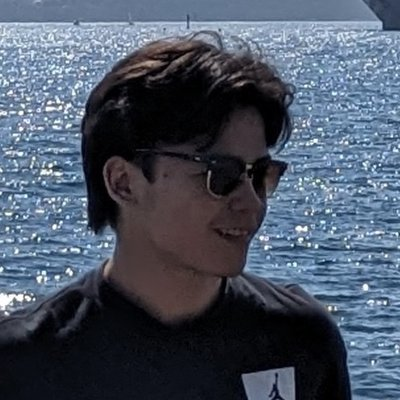
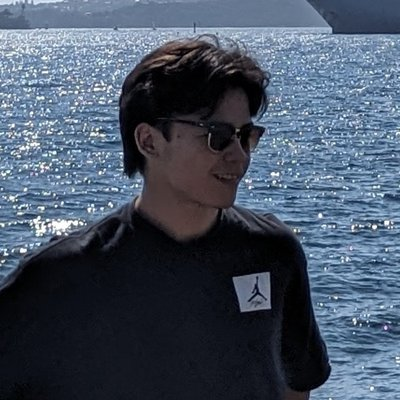
Widen profile photo crop

diff --git a/reviews.html b/reviews.html
@@ -5,7 +5,7 @@
   <meta name="viewport" content="width=device-width, initial-scale=1">
   <title>Reviews · Keiran Moores</title>
   <meta name="description" content="Leave a review for Keiran Moores' IT, AI adoption and security services.">
-  <link rel="stylesheet" href="assets/style.css?v=11">
+  <link rel="stylesheet" href="assets/style.css?v=12">
 </head>
 <body>
   <div class="page">
@@ -76,7 +76,7 @@
       </div>
     </main>
   </div>
-  <script src="assets/layout.js?v=11"></script>
+  <script src="assets/layout.js?v=12"></script>
   <script>
     (function () {
       const form = document.getElementById("review-form");

diff --git a/gallery.html b/gallery.html
@@ -4,7 +4,7 @@
   <meta charset="utf-8">
   <meta name="viewport" content="width=device-width, initial-scale=1">
   <title>Gallery · Keiran Moores</title>
-  <link rel="stylesheet" href="assets/style.css?v=11">
+  <link rel="stylesheet" href="assets/style.css?v=12">
 </head>
 <body>
   <div class="page">
@@ -72,7 +72,7 @@
     <button class="lb-next" type="button" aria-label="Next photo">›</button>
   </div>
 
-  <script src="assets/layout.js?v=11"></script>
+  <script src="assets/layout.js?v=12"></script>
   <script>
     (function () {
       const links = [...document.querySelectorAll("#gallery [data-full]")];

diff --git a/index.html b/index.html
@@ -5,7 +5,7 @@
   <meta name="viewport" content="width=device-width, initial-scale=1">
   <title>Keiran Moores</title>
   <meta name="description" content="Personal homepage of Keiran Moores.">
-  <link rel="stylesheet" href="assets/style.css?v=11">
+  <link rel="stylesheet" href="assets/style.css?v=12">
 </head>
 <body>
   <div class="page">
@@ -48,6 +48,6 @@
       <p>The opinions on this website are my own and do not reflect those of my employer.</p>
     </main>
   </div>
-  <script src="assets/layout.js?v=11"></script>
+  <script src="assets/layout.js?v=12"></script>
 </body>
 </html>

diff --git a/cv.html b/cv.html
@@ -4,7 +4,7 @@
   <meta charset="utf-8">
   <meta name="viewport" content="width=device-width, initial-scale=1">
   <title>CV · Keiran Moores</title>
-  <link rel="stylesheet" href="assets/style.css?v=11">
+  <link rel="stylesheet" href="assets/style.css?v=12">
 </head>
 <body>
   <div class="page">
@@ -27,6 +27,6 @@
       <p>Python, Powershell, Digital Innovation and Adoption, ML & Data Algorithms, Data Application and Security</p>
     </main>
   </div>
-  <script src="assets/layout.js?v=11"></script>
+  <script src="assets/layout.js?v=12"></script>
 </body>
 </html>

diff --git a/blog.html b/blog.html
@@ -4,7 +4,7 @@
   <meta charset="utf-8">
   <meta name="viewport" content="width=device-width, initial-scale=1">
   <title>Blog · Keiran Moores</title>
-  <link rel="stylesheet" href="assets/style.css?v=11">
+  <link rel="stylesheet" href="assets/style.css?v=12">
 </head>
 <body>
   <div class="page">
@@ -24,6 +24,6 @@
       <div class="callout">The first posts are on their way. Check back soon!</div>
     </main>
   </div>
-  <script src="assets/layout.js?v=11"></script>
+  <script src="assets/layout.js?v=12"></script>
 </body>
 </html>

diff --git a/products.html b/products.html
@@ -4,7 +4,7 @@
   <meta charset="utf-8">
   <meta name="viewport" content="width=device-width, initial-scale=1">
   <title>Products · Keiran Moores</title>
-  <link rel="stylesheet" href="assets/style.css?v=11">
+  <link rel="stylesheet" href="assets/style.css?v=12">
 </head>
 <body>
   <div class="page">
@@ -38,6 +38,6 @@
       </div>
     </main>
   </div>
-  <script src="assets/layout.js?v=11"></script>
+  <script src="assets/layout.js?v=12"></script>
 </body>
 </html>

diff --git a/service.html b/service.html
@@ -4,7 +4,7 @@
   <meta charset="utf-8">
   <meta name="viewport" content="width=device-width, initial-scale=1">
   <title>Services · Keiran Moores</title>
-  <link rel="stylesheet" href="assets/style.css?v=11">
+  <link rel="stylesheet" href="assets/style.css?v=12">
 </head>
 <body>
   <div class="page">
@@ -41,6 +41,6 @@
       </ul>
     </main>
   </div>
-  <script src="assets/layout.js?v=11"></script>
+  <script src="assets/layout.js?v=12"></script>
 </body>
 </html>

diff --git a/assets/layout.js b/assets/layout.js
@@ -60,7 +60,7 @@
     </div></header>`;
 
   const sidebar = `
-    <img class="avatar" src="assets/profile.jpg" alt="Photo of ${PROFILE.name}" width="160" height="160">
+    <img class="avatar" src="assets/profile.jpg?v=2" alt="Photo of ${PROFILE.name}" width="160" height="160">
     <div>
       <h2 class="author-name">${PROFILE.name}</h2>
       <p class="author-title">${PROFILE.title}</p>
